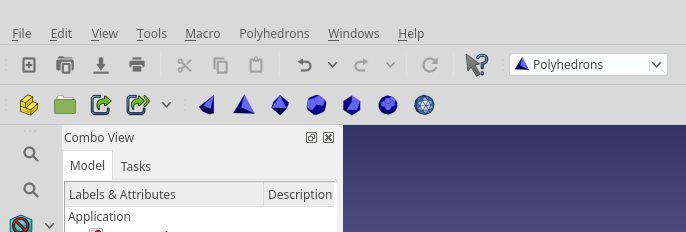
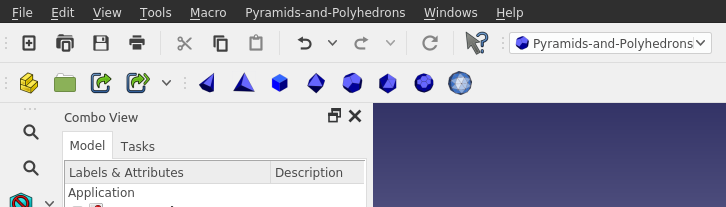
version 01.07 = some namechanges

Changed region(s): [[0.0, 0.0, 1.0, 1.0], [0.0306, 0.7826, 0.0612, 0.8406]]

diff --git a/InitGui.py b/InitGui.py
@@ -34,10 +34,13 @@
 # version 01.04  (2020-01-30)
 # renamed Mod to Pyramids-and-Polyhedrons
 
+# version 01.05  (2020-12-26)
+# additional namechanges, no functional changes
+
 class PolyhydronsWorkbench (Workbench):
 
-    MenuText = "Polyhedrons"
-    ToolTip = "A workbench for generating pyramids and polyhedrons"
+    MenuText = "Pyramids-and-Polyhedrons"
+    ToolTip = "A workbench for generating pyramids, polyhedrons and geodesic spheres"
     #Icon = """paste here the contents of a 16x16 xpm icon"""
 
     def __init__(self):
@@ -47,8 +50,8 @@ class PolyhydronsWorkbench (Workbench):
         """This function is executed when FreeCAD starts"""
         import polyhedrons # import here all the needed files that create your FreeCAD commands
         self.list = ["Pyramid","Tetrahedron","Hexahedron","Octahedron","Dodecahedron","Icosahedron","Icosahedron_truncated","Geodesic_sphere"] # A list of command names created in the line above
-        self.appendToolbar("Polyhedrons",self.list) # creates a new toolbar with your commands
-        self.appendMenu("Polyhedrons",self.list) # creates a new menu
+        self.appendToolbar("Pyramids-and-Polyhedrons",self.list) # creates a new toolbar with your commands
+        self.appendMenu("Pyramids-and-Polyhedrons",self.list) # creates a new menu
         #self.appendMenu(["An existing Menu","My submenu"],self.list) # appends a submenu to an existing menu
 
     def Activated(self):
@@ -62,7 +65,7 @@ class PolyhydronsWorkbench (Workbench):
     def ContextMenu(self, recipient):
         """This is executed whenever the user right-clicks on screen"""
         # "recipient" will be either "view" or "tree"
-        self.appendContextMenu("Polyhedrons",self.list) # add commands to the context menu
+        self.appendContextMenu("Pyramids-and-Polyhedrons",self.list) # add commands to the context menu
 
     def GetClassName(self): 
         # this function is mandatory if this is a full python workbench

diff --git a/polyhedrons.py b/polyhedrons.py
@@ -43,6 +43,8 @@
 # version 01.06  (2020-12-21)
 # Pyramids are rotatable around the z-axis and start parallel to the x-axis
 
+
+
 import FreeCAD,FreeCADGui
 import Part
 import math
@@ -651,7 +653,7 @@ class Icosahedron_truncated:
             obj.Radius = self.radiusvalue
             radius = self.radiusvalue
             
-        z = 4*radius / math.sqrt(10 + 2 * math.sqrt(5))
+        z = 4*radius / math.sqrt(10 + 2 * math.sqrt(5))  # z of base icosahedron
         anglefaces = 138.189685104
         r = z/12 * math.sqrt(3) * (3 + math.sqrt(5))
 

diff --git a/README.md b/README.md
@@ -9,24 +9,26 @@ and polygons:
 - truncated icosahedron (football)
 - geodesic spheres (level 1 to 10)
 
+All fully scalable parts just like in the PART workbench.
+
 How to use:
 Activate the shape you want. Then adjust the sizes, as with classic Parts.
 
-# 2 versions
- - the first edition are macros. (the resulting parts are fully scalable)
- - the second edition is a workbench with fully scalable parts just like in the part workbench
+Note: this is a user-friendly version of existing macros.
+  
 
 <img src="workbench.png">
 
 <img src="polyhedrons.png">
 
 
-They can be installed using the addon manager in FreeCadMenu/Tools/Addon Manager
-- Select the tab Macros or Workbenches 
-- Select and click "Install"
+# Install using the addon manager (when availale)
+In FREECAD go to the Main Menu/Tools/Addon Manager
+- Select the tab Workbenches 
+- Select 'Pyramids-and-Polyhedrons' and click "Install"
 
 
-# How to install the workbench manually
+# How to install the workbench manually  (always possible)
 - Find the Macro folder via FreeCadMenu/Edit/Preferences/Macro ...
 
     normally:
@@ -35,8 +37,8 @@ They can be installed using the addon manager in FreeCadMenu/Tools/Addon Manager
         * Windows : in  C:\Users\yourname\AppData\Roaming\FreeCAD\
 - Go to the 'Mod' folder, next to the 'Macro' folder
 - Download a copy of this repository and put it in the Mod folder
-- Simplify the folder-name to "Pyramids-and-Polyhedrons" 
+- Simplify the folder-name to "Pyramids-and-Polygons" 
 - (re)start FreeCAD
-- The workbench 'polyhydrons' is now in the list, select it
+- The workbench 'Pyramids-and-Polyhedrons' is now in the list, select it
 - click on an icon, and proceed just like in the Part workbench.
 
